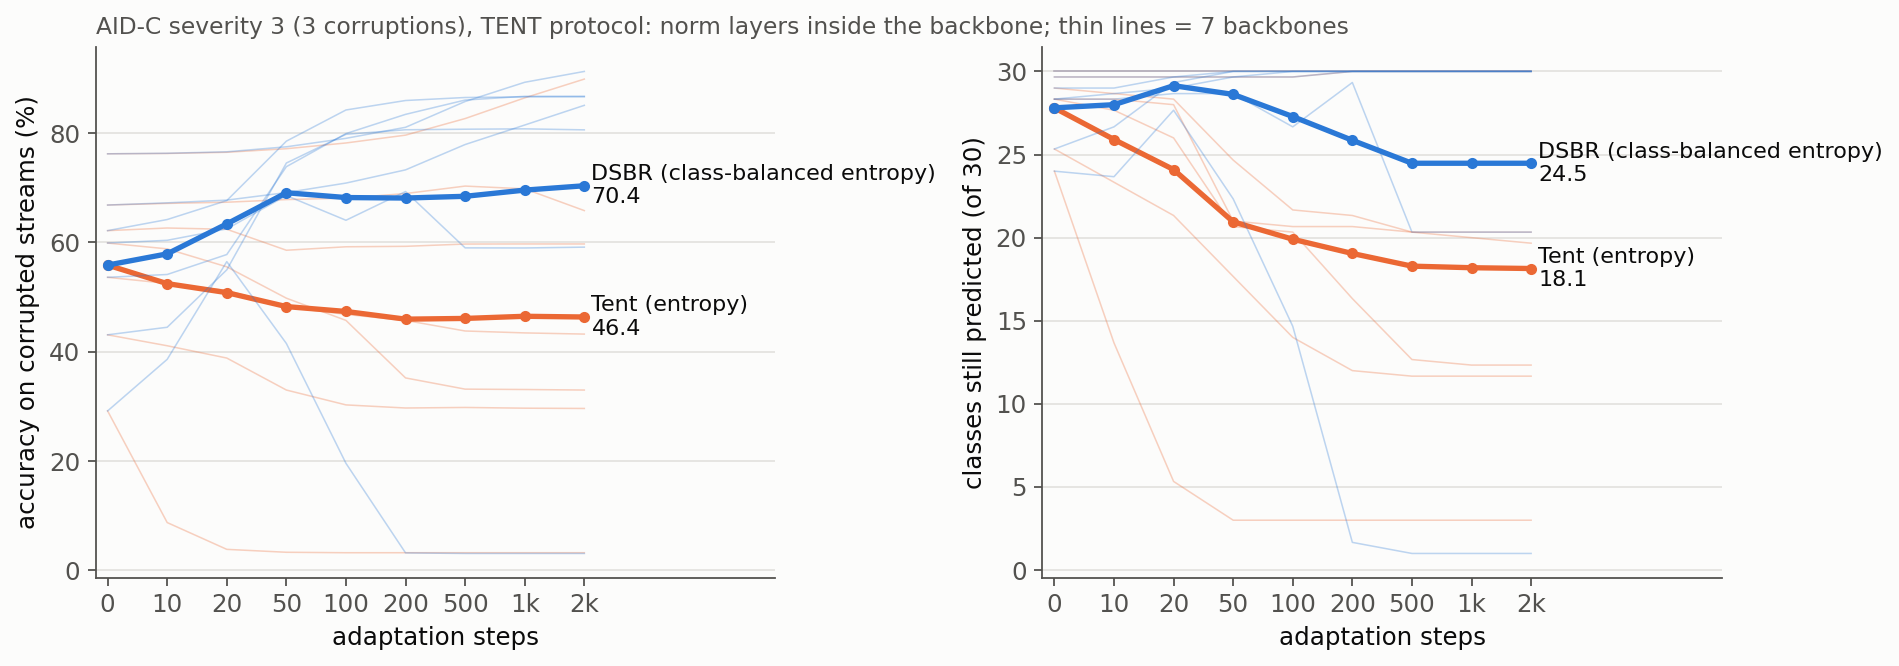
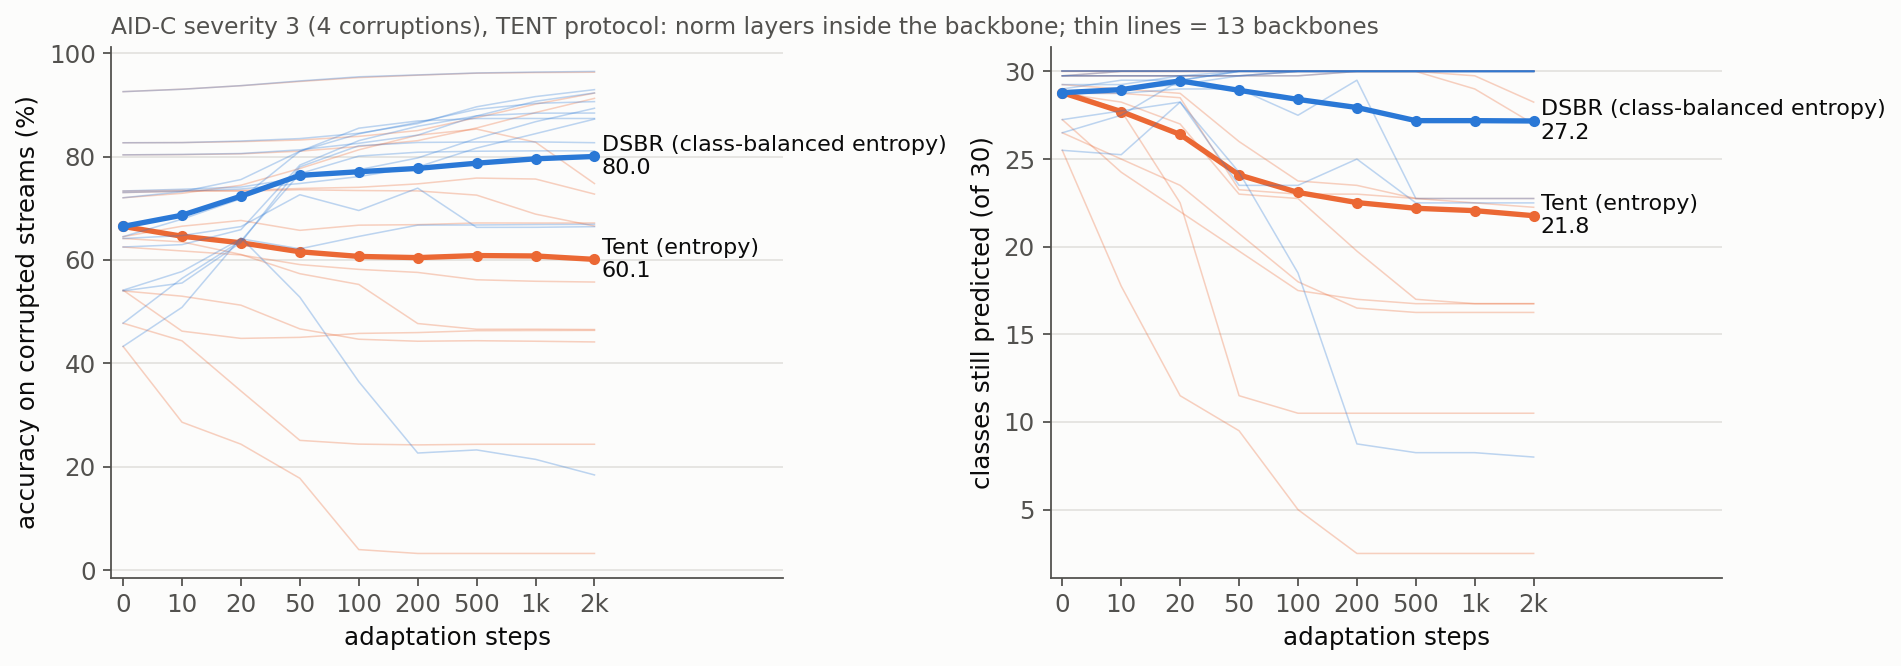
Tent-protocol long adaptation: 13 backbones x 4 corruptions, fig4b and T15 updated

diff --git a/repro/scripts/analysis/plot_midterm_figs.py b/repro/scripts/analysis/plot_midterm_figs.py
@@ -176,8 +176,11 @@ def fig4b():
     D = E / "2026-11-26_em_long_tent"
     R = {m: json.load(open(D / f"{m}.json")) for m in ORDER if (D / f"{m}.json").exists()}
     done = lambda r: {s_ for s_, v in r["streams"].items() if "tent" in v and "dsbr" in v}
-    R = {m: r for m, r in R.items() if done(r)}
-    S = sorted(set.intersection(*[done(r) for r in R.values()]))
+    ALL = {m: r for m, r in R.items() if done(r)}                      # every backbone with at least one finished stream
+    P4 = ["motion_blur_s3", "data_gaps_s3", "scale_image_s3", "gaussian_noise_new_s3"]
+    S12 = sorted(set.union(*[done(r) for r in ALL.values()]))
+    S = S12 if len(S12) == 12 and all(set(S12) <= done(r) for r in ALL.values()) else P4   # all 12 once every backbone has them
+    R = {m: r for m, r in ALL.items() if set(S) <= done(r)}
     ck = next(iter(R.values()))["ckpts"]; x = np.arange(len(ck))
     val = lambda m, loss, key: np.mean([R[m]["streams"][s_][loss][key] for s_ in S], 0)       # ckpt
     fig, axes = plt.subplots(1, 2, figsize=(12, 4.3))
@@ -215,8 +218,20 @@ def fig4b():
     for s_ in S:
         g = lambda loss, key, j: np.mean([R[m]["streams"][s_][loss][key][j] for m in R])
         out.append(f"| {short(s_)} | {g('tent', 'acc', 0):.1f} | {g('tent', 'acc', -1):.1f} | {g('dsbr', 'acc', -1):.1f} | {g('tent', 'n_pred', -1):.1f} | {g('dsbr', 'n_pred', -1):.1f} |")
+    pairs = [(m, s_, r["streams"][s_]) for m, r in ALL.items() for s_ in sorted(done(r))]
+    cnt = lambda loss, f: sum(f(v[loss]) for _, _, v in pairs)
+    coll, harm = (lambda v: v["n_pred"][-1] <= 5), (lambda v: v["acc"][-1] < v["acc"][0] - 5)
+    out += ["", f"## 끝난 (백본, 손상) 쌍 전체: {len(pairs)}쌍, 백본 {len(ALL)}개", "",
+            "붕괴 = 끝에서 예측 클래스 5개 이하. 손해 = 끝 정확도가 시작보다 5pt 넘게 낮음.", "",
+            "| | tent | dsbr |", "|---|---:|---:|",
+            f"| 붕괴한 쌍 | {cnt('tent', coll)} | {cnt('dsbr', coll)} |", f"| 손해인 쌍 | {cnt('tent', harm)} | {cnt('dsbr', harm)} |",
+            f"| 끝 정확도가 시작보다 높은 쌍 | {cnt('tent', lambda v: v['acc'][-1] > v['acc'][0])} | {cnt('dsbr', lambda v: v['acc'][-1] > v['acc'][0])} |", "",
+            "### tent나 dsbr이 손해인 쌍 (정확도 시작 → 끝, 괄호 = 끝의 예측 클래스 수)", "", "| model | 손상 | 시작 | tent 끝 | dsbr 끝 |", "|---|---|---:|---:|---:|"]
+    for m, s_, v in pairs:
+        if harm(v["tent"]) or harm(v["dsbr"]):
+            out.append(f"| {m} | {short(s_)} | {v['tent']['acc'][0]:.1f} | {v['tent']['acc'][-1]:.1f} ({v['tent']['n_pred'][-1]}) | {v['dsbr']['acc'][-1]:.1f} ({v['dsbr']['n_pred'][-1]}) |")
     (D / "RESULTS.md").write_text("\n".join(out) + "\n")
-    print("saved", D / "RESULTS.md", "backbones", len(R), "streams", len(S))
+    print("saved", D / "RESULTS.md", "backbones", len(R), "streams", len(S), "pairs", len(pairs))
 
 
 def fig5():

diff --git a/repro/experiments/2026-11-26_em_long_tent/RESULTS.md b/repro/experiments/2026-11-26_em_long_tent/RESULTS.md
@@ -2,20 +2,26 @@
 
 `scripts/tta/cls_tta_long.py`. 이미지를 백본에 통과시키고 norm 층 affine을 학습(`cls_tta_fm.py`와 같은 파라미터, SGD momentum 0.9, lr 0.001 LN / 0.00025 BN).
 AID-C 3단계 stream(2,000장)을 반복해 2,000 step, 배치 64. checkpoint에서 stream 전체를 갱신 없이 예측. n_pred = 한 번이라도 예측된 클래스 수(30개 중).
-아래 평균은 결과가 있는 백본 7개가 모두 끝낸 손상 3종(data gaps, motion blur, scale)의 평균이다.
+아래 평균은 결과가 있는 백본 13개가 모두 끝낸 손상 4종(motion blur, data gaps, scale, Gaussian noise)의 평균이다.
 
 ## 백본별 (손상 평균)
 
 | model | 시작 acc | tent 최고 | tent 끝 | dsbr 최고 | dsbr 끝 | tent 끝 n_pred | dsbr 끝 n_pred | 시작 n_pred |
 |---|---:|---:|---:|---:|---:|---:|---:|---:|---:|
-| satmae | 62.2 | 62.6 | 59.7 | 86.6 | 86.6 | 20.3 | 30.0 | 28.3 |
-| scalemae | 59.9 | 59.9 | 33.0 | 69.3 | 59.1 | 12.3 | 20.3 | 28.3 |
-| moco_in | 29.2 | 29.2 | 3.3 | 56.5 | 3.1 | 3.0 | 1.0 | 24.0 |
-| moco_fmow | 43.1 | 43.1 | 29.6 | 80.8 | 80.6 | 11.7 | 30.0 | 25.3 |
-| gassl_fmow | 53.6 | 53.6 | 43.2 | 86.7 | 86.7 | 19.7 | 30.0 | 29.0 |
-| dino_in_s16 | 66.8 | 70.3 | 65.8 | 85.1 | 85.1 | 30.0 | 30.0 | 30.0 |
-| satdino_s16 | 76.2 | 89.9 | 89.9 | 91.3 | 91.3 | 30.0 | 30.0 | 29.7 |
-| **평균** | 55.9 | 58.4 | 46.4 | 79.5 | 70.4 | 18.1 | 24.5 | 27.8 |
+| mae_in | 54.2 | 54.2 | 46.4 | 66.9 | 66.9 | 16.8 | 22.5 | 27.2 |
+| satmae | 64.5 | 67.6 | 67.2 | 87.4 | 87.4 | 22.8 | 30.0 | 28.8 |
+| scalemae | 64.2 | 64.2 | 46.5 | 73.9 | 66.4 | 16.8 | 22.8 | 28.8 |
+| moco_in | 43.3 | 43.3 | 3.2 | 64.3 | 18.4 | 2.5 | 8.0 | 25.5 |
+| moco_fmow | 54.0 | 54.0 | 44.1 | 82.8 | 82.7 | 16.2 | 30.0 | 26.5 |
+| gassl_fmow | 62.5 | 62.5 | 55.7 | 88.4 | 88.4 | 22.2 | 30.0 | 29.2 |
+| dino_in_s16 | 73.0 | 75.8 | 72.7 | 87.2 | 87.2 | 30.0 | 30.0 | 30.0 |
+| satdino_s16 | 80.3 | 91.3 | 91.3 | 92.3 | 92.3 | 30.0 | 30.0 | 29.8 |
+| dino_in_b16 | 73.3 | 73.6 | 66.6 | 89.3 | 89.3 | 28.2 | 30.0 | 30.0 |
+| satdino_b16 | 82.7 | 92.3 | 92.3 | 92.9 | 92.9 | 30.0 | 30.0 | 29.8 |
+| dinov3_web_l16 | 92.6 | 96.3 | 96.3 | 96.5 | 96.5 | 30.0 | 30.0 | 30.0 |
+| sup_in_r50 | 47.8 | 47.8 | 24.4 | 81.1 | 81.1 | 10.5 | 30.0 | 29.0 |
+| sup_in_vitb16 | 72.0 | 85.3 | 74.8 | 90.6 | 90.6 | 27.0 | 30.0 | 29.8 |
+| **평균** | 66.5 | 69.9 | 60.1 | 84.1 | 80.0 | 21.8 | 27.2 | 28.8 |
 
 최고 = 그 백본의 손상 평균 곡선에서 가장 높은 checkpoint 값(stream별 최고점의 평균이 아님).
 
@@ -23,17 +29,53 @@ AID-C 3단계 stream(2,000장)을 반복해 2,000 step, 배치 64. checkpoint에
 
 | step | 0 | 10 | 20 | 50 | 100 | 200 | 500 | 1000 | 2000 |
 |---|---:|---:|---:|---:|---:|---:|---:|---:|---:|
-| tent acc | 55.9 | 52.5 | 50.8 | 48.3 | 47.4 | 46.0 | 46.1 | 46.5 | 46.4 |
-| tent n_pred | 27.8 | 25.9 | 24.1 | 21.0 | 19.9 | 19.0 | 18.3 | 18.2 | 18.1 |
-| tent top | 23.3 | 30.8 | 34.9 | 43.0 | 44.9 | 47.2 | 49.7 | 50.3 | 50.9 |
-| dsbr acc | 55.9 | 57.9 | 63.4 | 69.1 | 68.2 | 68.1 | 68.4 | 69.6 | 70.4 |
-| dsbr n_pred | 27.8 | 28.0 | 29.1 | 28.6 | 27.3 | 25.9 | 24.5 | 24.5 | 24.5 |
-| dsbr top | 23.3 | 20.3 | 15.4 | 11.7 | 15.6 | 19.6 | 24.0 | 23.4 | 23.0 |
+| tent acc | 66.5 | 64.6 | 63.3 | 61.6 | 60.7 | 60.4 | 60.8 | 60.8 | 60.1 |
+| tent n_pred | 28.8 | 27.7 | 26.4 | 24.1 | 23.1 | 22.5 | 22.2 | 22.1 | 21.8 |
+| tent top | 18.3 | 23.2 | 26.6 | 31.5 | 33.5 | 34.4 | 35.6 | 36.5 | 37.6 |
+| dsbr acc | 66.5 | 68.7 | 72.3 | 76.4 | 77.1 | 77.7 | 78.7 | 79.6 | 80.0 |
+| dsbr n_pred | 28.8 | 29.0 | 29.5 | 28.9 | 28.4 | 27.9 | 27.2 | 27.2 | 27.2 |
+| dsbr top | 18.3 | 16.0 | 12.6 | 10.7 | 11.2 | 12.0 | 14.6 | 14.2 | 14.0 |
 
 ## 손상별 (백본 평균): 시작 → 끝 정확도, 끝의 n_pred
 
 | 손상 | 시작 | tent 끝 | dsbr 끝 | tent n_pred | dsbr n_pred |
 |---|---:|---:|---:|---:|---:|
-| data gaps | 55.5 | 37.6 | 73.6 | 18.6 | 25.9 |
-| motion blur | 33.6 | 26.0 | 61.3 | 9.7 | 21.7 |
-| scale | 78.5 | 75.4 | 76.2 | 26.1 | 25.9 |
+| motion blur | 44.6 | 36.1 | 72.4 | 13.8 | 25.5 |
+| data gaps | 60.9 | 49.8 | 81.4 | 21.3 | 27.8 |
+| scale | 73.2 | 69.5 | 76.1 | 24.2 | 25.5 |
+| Gaussian noise | 87.2 | 85.0 | 90.2 | 27.8 | 29.9 |
+
+## 끝난 (백본, 손상) 쌍 전체: 53쌍, 백본 14개
+
+붕괴 = 끝에서 예측 클래스 5개 이하. 손해 = 끝 정확도가 시작보다 5pt 넘게 낮음.
+
+| | tent | dsbr |
+|---|---:|---:|
+| 붕괴한 쌍 | 14 | 5 |
+| 손해인 쌍 | 20 | 6 |
+| 끝 정확도가 시작보다 높은 쌍 | 33 | 47 |
+
+### tent나 dsbr이 손해인 쌍 (정확도 시작 → 끝, 괄호 = 끝의 예측 클래스 수)
+
+| model | 손상 | 시작 | tent 끝 | dsbr 끝 |
+|---|---|---:|---:|---:|
+| mae_in | motion blur | 36.8 | 3.1 (1) | 81.3 (29) |
+| mae_in | scale | 23.0 | 3.3 (6) | 3.1 (1) |
+| satmae | motion blur | 29.6 | 4.0 (1) | 82.2 (30) |
+| scalemae | data gaps | 61.5 | 4.1 (5) | 83.3 (30) |
+| scalemae | motion blur | 30.9 | 6.0 (2) | 3.5 (1) |
+| moco_in | data gaps | 35.6 | 3.9 (5) | 2.8 (1) |
+| moco_in | Gaussian noise | 85.6 | 3.2 (1) | 64.3 (29) |
+| moco_in | motion blur | 10.7 | 2.8 (1) | 3.5 (1) |
+| moco_in | scale | 41.3 | 3.1 (3) | 3.1 (1) |
+| moco_fmow | data gaps | 34.4 | 3.8 (4) | 79.2 (30) |
+| moco_fmow | motion blur | 14.8 | 4.0 (1) | 81.3 (30) |
+| gassl_fmow | data gaps | 49.6 | 38.3 (26) | 85.4 (30) |
+| gassl_fmow | motion blur | 28.4 | 4.0 (3) | 87.0 (30) |
+| dino_in_s16 | data gaps | 58.1 | 38.3 (30) | 85.5 (30) |
+| dino_in_b16 | data gaps | 59.5 | 9.8 (23) | 90.1 (30) |
+| dinov3_sat_l16 | motion blur | 31.2 | 2.8 (1) | 83.2 (30) |
+| sup_in_r50 | data gaps | 28.3 | 4.5 (4) | 79.0 (30) |
+| sup_in_r50 | motion blur | 35.6 | 2.8 (2) | 77.7 (30) |
+| sup_in_r50 | scale | 46.0 | 3.3 (6) | 79.9 (30) |
+| sup_in_vitb16 | motion blur | 57.1 | 23.8 (18) | 85.8 (30) |
